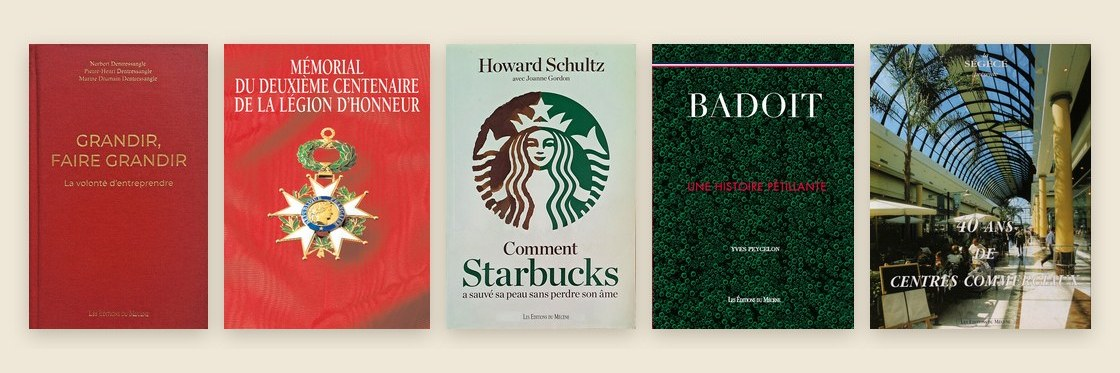
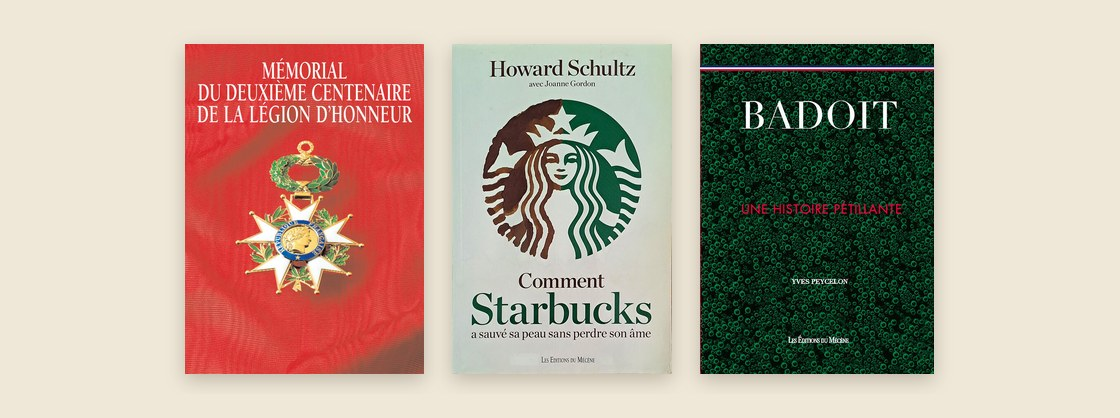
Campagne Site : visuel à 3 livres (Légion d'honneur, Starbucks, Badoit) ; /stats : clics comptés sur la liste réelle des cliqueurs, alerte quand le nom ne correspond pas à l'adresse
Claude-Session: https://claude.ai/code/session_01MNdvdNrUp6L3XHMz5Kvpag

diff --git a/stats.html b/stats.html
@@ -131,7 +131,7 @@ select{font:600 13px Manrope,Arial,sans-serif;padding:9px 12px;border:1px solid 
         <div class="kpis">
           <div class="kpi"><small>Délivrés</small><b id="cd-delivered">—</b></div>
           <div class="kpi"><small>Ouvertures</small><b id="cd-opens">—</b></div>
-          <div class="kpi"><small>Clics</small><b id="cd-clicks">—</b></div>
+          <div class="kpi"><small>Personnes qui ont cliqué</small><b id="cd-clicks">—</b></div>
           <div class="kpi"><small>Taux de clic</small><b id="cd-ctr">—</b></div>
           <div class="kpi"><small>Rejets</small><b id="cd-bounces">—</b></div>
           <div class="kpi"><small>Désinscriptions</small><b id="cd-unsub">—</b></div>
@@ -198,7 +198,20 @@ select{font:600 13px Manrope,Arial,sans-serif;padding:9px 12px;border:1px solid 
 
   var clk = [], clkFilter = "all", clkCampaign = null;
 
+  var cdDelivered = 0;
+  function norm(t) { return String(t).normalize("NFD").replace(/[\u0300-\u036f]/g, "").toLowerCase(); }
+  // Vrai si l'adresse contient le nom de famille du contact (ou une adresse générique sans nom).
+  function nameMatches(name, email) {
+    var local = norm(email.split("@")[0]).replace(/[^a-z]/g, "");
+    var words = norm(name).replace(/["']/g, "").trim().split(/\s+/);
+    var parts = (words.length > 1 ? words.slice(1) : words).join("-").split("-").filter(function (w) { return w.length >= 3; });
+    if (!parts.length) return true;
+    return parts.some(function (w) { return local.indexOf(w.replace(/[^a-z]/g, "")) > -1; });
+  }
   function clkCount() {
+    // Taux de clic calculé sur la liste réelle des cliqueurs : le total global de Brevo est parfois faux.
+    $("cd-clicks").textContent = clk.length ? nf.format(clk.length) : "—";
+    $("cd-ctr").textContent = clk.length && cdDelivered ? (clk.length / cdDelivered * 100).toLocaleString("fr-FR", { maximumFractionDigits: 1 }) + " %" : "—";
     var done = clk.filter(function (x) { return x.called; }).length;
     $("clk-count").textContent = clk.length ? "(" + clk.length + " · " + done + " appelée" + (done > 1 ? "s" : "") + ")" : "";
   }
@@ -218,6 +231,12 @@ select{font:600 13px Manrope,Arial,sans-serif;padding:9px 12px;border:1px solid 
       if (x.called) tr.className = "done";
       var who = document.createElement("td"); who.className = "who";
       var b = document.createElement("b"); b.textContent = x.name || "—"; who.appendChild(b);
+      if (x.name && !nameMatches(x.name, x.email)) {
+        var warn = document.createElement("small");
+        warn.textContent = "⚠ nom à vérifier : l’adresse ne correspond pas à ce nom";
+        warn.style.cssText = "display:block;color:var(--wine)";
+        who.appendChild(warn);
+      }
       if (x.job) { var j = document.createElement("small"); j.textContent = x.job; who.appendChild(j); who.appendChild(document.createElement("br")); }
       var m = document.createElement("a"); m.href = "mailto:" + x.email; m.textContent = x.email; who.appendChild(m);
       var co = document.createElement("td"); co.textContent = x.company;
@@ -285,8 +304,8 @@ select{font:600 13px Manrope,Arial,sans-serif;padding:9px 12px;border:1px solid 
       $("cd-sub").textContent = (c.subject ? "Objet : " + c.subject + " · " : "") + "envoyée le " + fmtDate(c.sentDate, true) + " à " + nf.format(c.sent) + " contacts";
       $("cd-delivered").textContent = nf.format(c.delivered);
       $("cd-opens").textContent = nf.format(c.opens);
-      $("cd-clicks").textContent = nf.format(c.clicks);
-      $("cd-ctr").textContent = c.delivered ? (c.clicks / c.delivered * 100).toLocaleString("fr-FR", { maximumFractionDigits: 1 }) + " %" : "—";
+      cdDelivered = c.delivered;
+      clkCount();
       $("cd-bounces").textContent = nf.format(c.hardBounces + c.softBounces);
       $("cd-unsub").textContent = nf.format(c.unsubscriptions);
       fill("cd-links", c.links, function (x) {
@@ -337,7 +356,7 @@ select{font:600 13px Manrope,Arial,sans-serif;padding:9px 12px;border:1px solid 
     fill("t-devices", s.devices, site, none, 2);
     fill("t-countries", s.countries, site, none, 2);
     fill("t-camps", c.list, function (x) {
-      return [x.name, fmtDate(x.sentDate, true), x.sent, x.delivered, x.opens, x.clicks, x.bounces, x.unsubscriptions];
+      return [x.name, fmtDate(x.sentDate, true), x.sent, x.delivered, x.opens, x.clicks > x.delivered ? "voir détail" : x.clicks, x.bounces, x.unsubscriptions];
     }, c.error ? errText(c.error) : "Aucune campagne envoyée.", 8);
     var sel = $("camp-select"), cur = sel.value;
     sel.length = 1;
